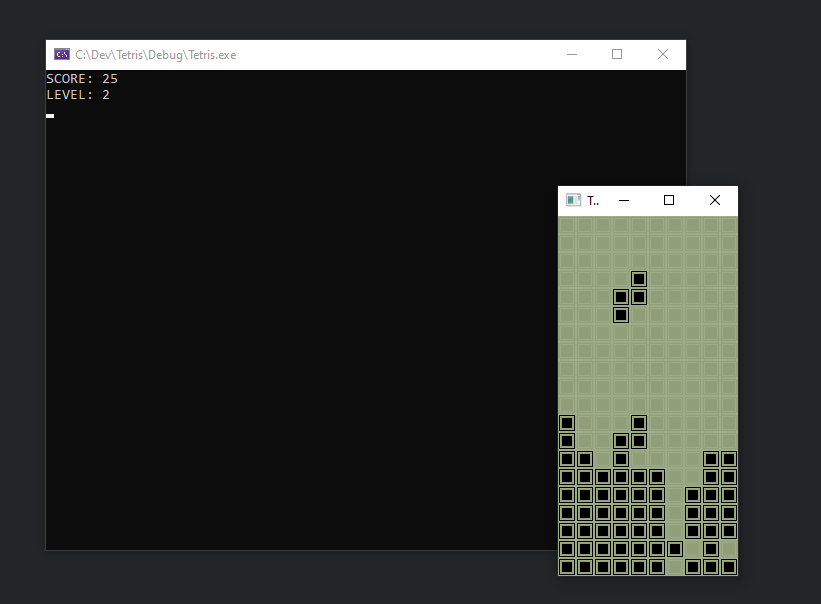
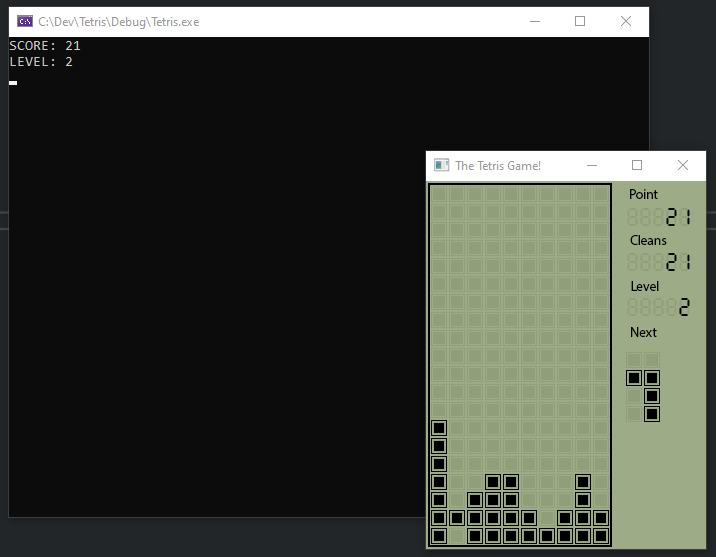
Change design

diff --git a/Tetris/src/Application.cpp b/Tetris/src/Application.cpp
@@ -2,11 +2,11 @@
 #include "Point.h"
 #include <iostream>
 
-Tetris::Application::Application()
+Tetris::Application::Application(): points(0, 265, 26), cleans(0, 265, 71), level(0, 265, 116)
 {
 	using namespace sf;
 	srand(time(0));
-	RenderWindow window(VideoMode(TILE_SIZE * GAME_FIELD_WIDTH, TILE_SIZE * GAME_FIELD_HEIGHT), "The Tetris Game!");
+	RenderWindow window(VideoMode(TILE_SIZE * GAME_FIELD_WIDTH + 100, TILE_SIZE * GAME_FIELD_HEIGHT + 8), "The Tetris Game!");
 	Run(window);
 }
 
@@ -20,7 +20,16 @@ void Tetris::Application::Run(sf::RenderWindow& window)
 	Sprite sprite(texture);
 	sprite.setTextureRect(IntRect(0, 0, TILE_SIZE, TILE_SIZE));
 
+	Texture backgroundTexture;
+	backgroundTexture.loadFromFile("..\\Tetris\\assets\\bg.png");
+	Sprite background(backgroundTexture);
+	background.setTextureRect(IntRect(0, 0, 305, 368));
+	
+
 	Figure<GAME_FIELD_HEIGHT, GAME_FIELD_WIDTH> figure(0, TILE_SIZE, field);
+	// Digital digital;
+	points.setValue(0);
+	next = rand() % 6;
 
 	while (window.isOpen())
 	{
@@ -73,7 +82,8 @@ void Tetris::Application::Run(sf::RenderWindow& window)
 			if (!check(figure)) {
 				figure.revert();
 				figure.toField();
-				figure.reset(rand() % 6);
+				figure.reset(next);
+				next = rand() % 6;
 				if (checkGameOver()) {
 					// RESET GAME
 				}
@@ -85,23 +95,32 @@ void Tetris::Application::Run(sf::RenderWindow& window)
 		rotate = false;
 		currentDelay = delay;
 		
+		// window.clear(sf::Color(158, 171, 135, 255));
+		window.draw(background);
+		
 		// RENDER FIELD BACK
 		for (int i = 0; i < GAME_FIELD_HEIGHT; ++i) {
 			for (int j = 0; j < GAME_FIELD_WIDTH; ++j) {
 				if (field[i][j] == 0) {
 					sprite.setTextureRect(IntRect(TILE_SIZE, 0, TILE_SIZE, TILE_SIZE));
-					sprite.setPosition(j * TILE_SIZE, i * TILE_SIZE);
+					sprite.setPosition(j * TILE_SIZE + 4, i * TILE_SIZE + 4);
 					window.draw(sprite);
 				}
 				else {
 					sprite.setTextureRect(sf::IntRect(0, 0, TILE_SIZE, TILE_SIZE));
-					sprite.setPosition(j * TILE_SIZE, i * TILE_SIZE);
+					sprite.setPosition(j * TILE_SIZE + 4, i * TILE_SIZE + 4);
 					window.draw(sprite);
 				}
 			}
 		}
 		// RENDER FIGURES
 		figure.Render(window, sprite);
+		figure.RenderNext(window, sprite, next);
+		points.Render(window);
+		cleans.Render(window);
+		level.Render(window);
+		
+
 		window.display();
 	}
 }
@@ -144,8 +163,12 @@ void Tetris::Application::displayScore()
 		#elif defined (__APPLE__)
 		system("clear");
 		#endif
+		int levelValue = static_cast<int>((DELAY_START - delay) * 100);
 		std::cout << "SCORE: " << score << std::endl;
-		std::cout << "LEVEL: " << static_cast<int>((DELAY_START - delay) * 100) << std::endl;
+		std::cout << "LEVEL: " << levelValue << std::endl;
+		points.setValue(score);
+		cleans.setValue(score);
+		level.setValue(levelValue);
 }
 
 bool Tetris::Application::check(Tetris::Figure<GAME_FIELD_HEIGHT, GAME_FIELD_WIDTH> figure) {

diff --git a/Tetris/src/Figure.h b/Tetris/src/Figure.h
@@ -45,7 +45,7 @@ namespace Tetris {
 		void Render(sf::RenderWindow& window, sf::Sprite sprite) {
 			sprite.setTextureRect(sf::IntRect(0, 0, tileSize, tileSize));
 			for (int i = 0; i < 4; ++i) {
-				sprite.setPosition(fieldPositions[i].x * tileSize, fieldPositions[i].y * tileSize);
+				sprite.setPosition(fieldPositions[i].x * tileSize + 4, fieldPositions[i].y * tileSize + 4);
 				window.draw(sprite);
 			}
 		}
@@ -114,6 +114,24 @@ namespace Tetris {
 			for (int i = 0; i < 4; ++i) {
 				field[fieldPositions[i].y][fieldPositions[i].x] = 2;
 			}
+		}
+
+		void RenderNext(sf::RenderWindow& window, sf::Sprite sprite, int n) {
+			sprite.setTextureRect(sf::IntRect(tileSize, 0, tileSize, tileSize));
+			
+			for (int i = 0; i < 2; ++i) {
+				for (int j = 0; j < 4; ++j) {
+					sprite.setPosition(i * tileSize + 199, j * tileSize + 170);
+					window.draw(sprite);
+				}
+			}
+			
+			for (int i = 0; i < 4; ++i) {
+				sprite.setTextureRect(sf::IntRect(0, 0, tileSize, tileSize));
+				sprite.setPosition((figures[n][i] % 2) * tileSize + 199, (figures[n][i] / 2) * tileSize + 170);
+				window.draw(sprite);
+			}
+			
 		}
 
 	};

diff --git a/Tetris/src/Digital.cpp b/Tetris/src/Digital.cpp
@@ -1,0 +1,49 @@
+#include "Digital.h"
+
+namespace Tetris {
+
+	Digital::Digital(int v, int x, int y)
+	{
+		using namespace sf;
+		texture.loadFromFile("..\\Tetris\\assets\\digits.png");
+		Sprite sprite(texture);
+		this->sprite = sprite;
+		sprite.setTextureRect(IntRect(0, 0, 13, 20));
+		value = v;
+		this->x = x;
+		this->y = y;
+	}
+
+	Digital::~Digital()
+	{
+	}
+
+	void Digital::Render(sf::RenderWindow& window)
+	{
+		int v = value;
+		int offset = 0;
+		while (v > 0) {
+			int digit = v % 10;
+			v /= 10;
+			++offset;
+			RenderDigit(digit, offset, window);
+		}
+
+		while (++offset < 6) {
+			RenderDigit(-1, offset, window);
+		}
+
+	}
+	
+	void Digital::setValue(int value)
+	{
+		this->value = value;
+	}
+	void Digital::RenderDigit(int digit, int offset, sf::RenderWindow& window)
+	{
+		sprite.setTextureRect(sf::IntRect(13 * (digit + 1), 0, 13, 20));
+		sprite.setPosition(x - offset * 13, y);
+		window.draw(sprite);
+	}
+}
+

diff --git a/Tetris/src/Application.h b/Tetris/src/Application.h
@@ -5,6 +5,7 @@
 #include <SFML/Graphics.hpp>
 #include "Figure.h";
 #include "Point.h"
+#include "Digital.h"
 
 namespace Tetris {
 	inline constexpr int TILE_SIZE { 18 };
@@ -26,6 +27,10 @@ namespace Tetris {
 		std::vector<Tetris::Point> figureFieldPoints;
 		std::vector<Tetris::Point> prevFigureFieldPoints;
 		int score = 0;
+		Digital points;
+		Digital cleans;
+		Digital level;
+		int next;
 	public:
 		Application();
 	private:

diff --git a/Tetris/src/Digital.h b/Tetris/src/Digital.h
@@ -1,0 +1,19 @@
+#pragma once
+#include <SFML/Graphics.hpp>
+
+namespace Tetris {
+	class Digital {
+	public:
+		Digital(int value, int x, int y);
+		~Digital();
+		void Render(sf::RenderWindow& window);
+		void setValue(int value);
+	private:
+		sf::Texture texture;
+		sf::Sprite sprite;
+		int value = 0;
+		void RenderDigit(int digit, int offset, sf::RenderWindow& window);
+		int x;
+		int y;
+	};
+}
